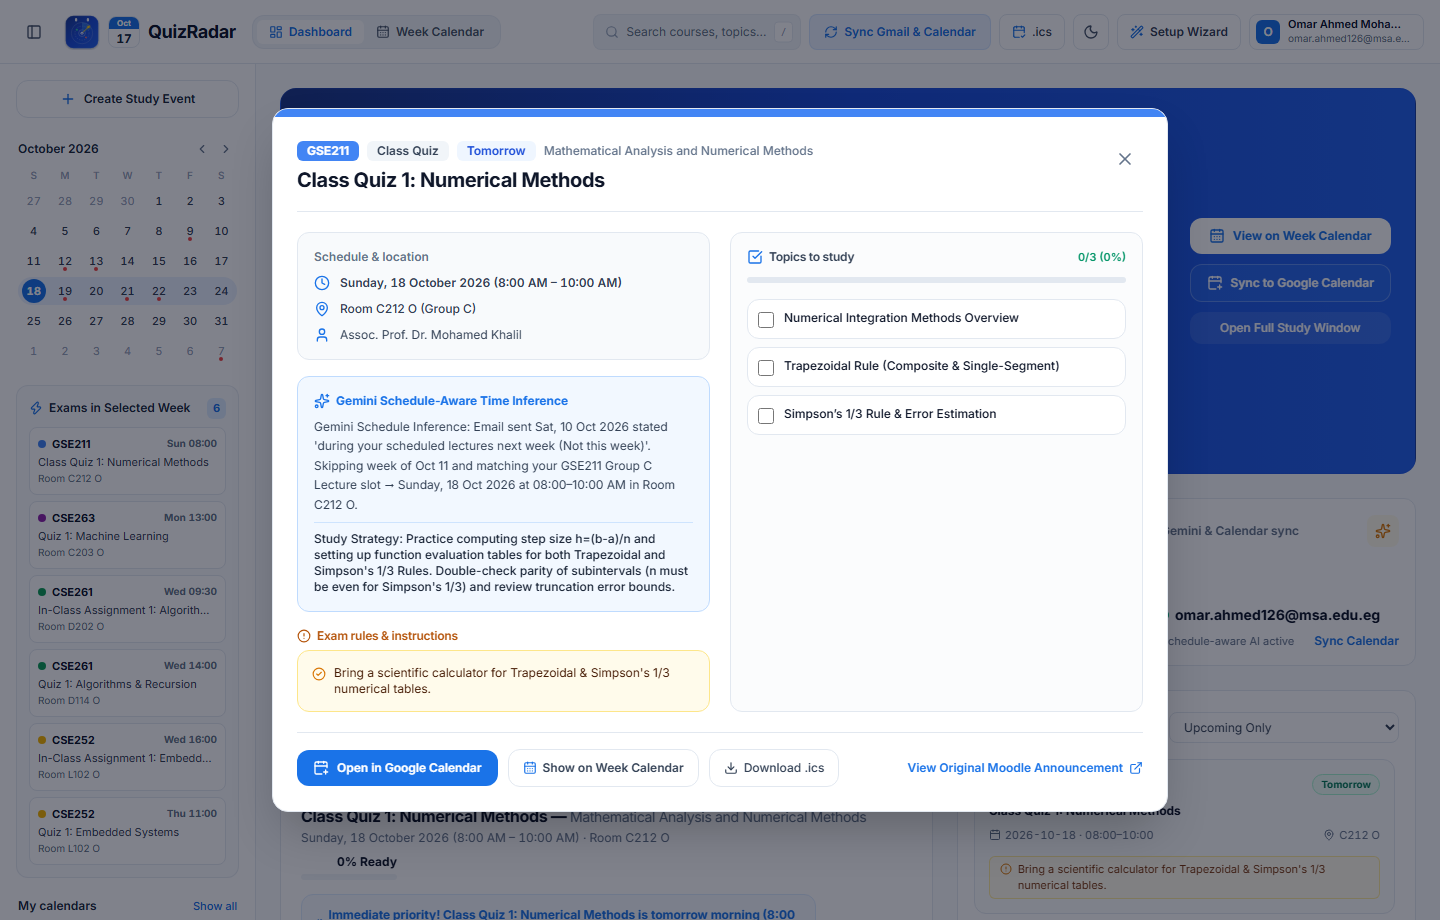
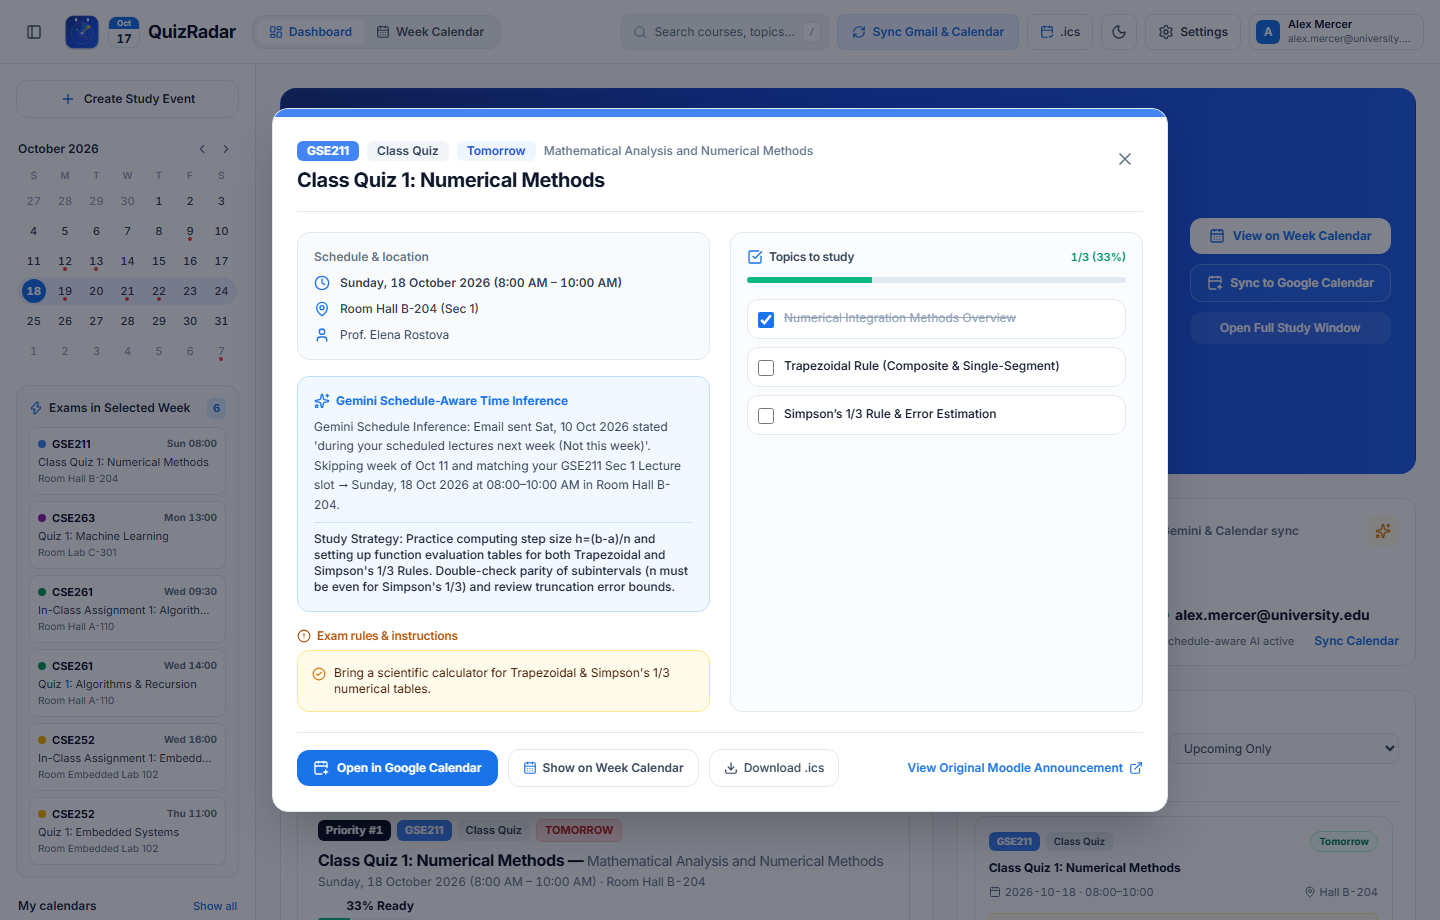
Update screenshots and HTML defaults to use anonymized dummy student & instructor data

diff --git a/static/index.html b/static/index.html
@@ -327,11 +327,11 @@
       <!-- Signed-in Google User Pill -->
       <div onclick="openSettingsModal()" class="h-9 flex items-center gap-2 pl-1.5 pr-2.5 rounded-lg border border-slate-200 dark:border-slate-700 hover:bg-slate-100 dark:hover:bg-slate-800 cursor-pointer transition" title="Account & Sync Settings">
         <div id="user-avatar-badge" class="w-6 h-6 rounded-md bg-[#1a73e8] text-white flex items-center justify-center text-xs font-semibold">
-          O
+          A
         </div>
         <div class="hidden xl:block text-left leading-tight">
-          <div id="user-name-label" class="text-[11px] font-semibold text-slate-900 dark:text-slate-100 truncate max-w-[115px]">Omar Ahmed</div>
-          <div id="user-email-label" class="text-[10px] text-slate-500 dark:text-slate-400 truncate max-w-[125px]">omar.ahmed126@msa.edu.eg</div>
+          <div id="user-name-label" class="text-[11px] font-semibold text-slate-900 dark:text-slate-100 truncate max-w-[115px]">Alex Mercer</div>
+          <div id="user-email-label" class="text-[10px] text-slate-500 dark:text-slate-400 truncate max-w-[125px]">alex.mercer@university.edu</div>
         </div>
       </div>
     </div>
@@ -490,7 +490,7 @@
             <div class="mt-3">
               <div class="flex items-center gap-1.5">
                 <span class="inline-block w-2 h-2 rounded-full bg-emerald-500 shrink-0"></span>
-                <span id="kpi-sync-account" class="text-sm font-bold text-slate-900 dark:text-white truncate">omar.ahmed126@msa.edu.eg</span>
+                <span id="kpi-sync-account" class="text-sm font-bold text-slate-900 dark:text-white truncate">alex.mercer@university.edu</span>
               </div>
               <div class="flex items-center justify-between mt-2">
                 <span class="text-[11px] text-slate-500 dark:text-slate-400">Schedule-aware AI active</span>
@@ -756,10 +756,10 @@
           <!-- Account Profile Card -->
           <div class="p-4 rounded-xl border border-slate-200 dark:border-slate-700 bg-slate-50/80 dark:bg-slate-800/60 flex flex-wrap items-center justify-between gap-4">
             <div class="flex items-center gap-3.5">
-              <div id="onboard-user-avatar" class="w-12 h-12 rounded-xl bg-[#1a73e8] text-white flex items-center justify-center text-base font-bold shadow-xs">O</div>
+              <div id="onboard-user-avatar" class="w-12 h-12 rounded-xl bg-[#1a73e8] text-white flex items-center justify-center text-base font-bold shadow-xs">A</div>
               <div>
-                <div id="onboard-user-name" class="text-sm font-bold text-slate-900 dark:text-white">Omar Ahmed Mohamed Refaat Mostafa</div>
-                <div id="onboard-user-email" class="text-xs font-medium text-[#1a73e8] dark:text-blue-400">omar.ahmed126@msa.edu.eg</div>
+                <div id="onboard-user-name" class="text-sm font-bold text-slate-900 dark:text-white">Alex Mercer</div>
+                <div id="onboard-user-email" class="text-xs font-medium text-[#1a73e8] dark:text-blue-400">alex.mercer@university.edu</div>
                 <div id="onboard-scope-note" class="text-[11px] text-slate-500 dark:text-slate-400 mt-0.5">Gmail Read & Google Calendar Direct Sync Ready</div>
               </div>
             </div>
@@ -1023,10 +1023,10 @@
           </div>
           <div class="flex flex-wrap items-center justify-between gap-3">
             <div class="flex items-center gap-3">
-              <div id="settings-user-avatar" class="w-10 h-10 rounded-xl bg-[#1a73e8] text-white flex items-center justify-center text-sm font-bold">O</div>
+              <div id="settings-user-avatar" class="w-10 h-10 rounded-xl bg-[#1a73e8] text-white flex items-center justify-center text-sm font-bold">A</div>
               <div>
-                <div id="settings-user-name" class="text-xs font-bold text-slate-900 dark:text-white">Omar Ahmed Mohamed Refaat Mostafa</div>
-                <div id="settings-user-email" class="text-xs text-[#1a73e8] dark:text-blue-400 font-medium">omar.ahmed126@msa.edu.eg</div>
+                <div id="settings-user-name" class="text-xs font-bold text-slate-900 dark:text-white">Alex Mercer</div>
+                <div id="settings-user-email" class="text-xs text-[#1a73e8] dark:text-blue-400 font-medium">alex.mercer@university.edu</div>
               </div>
             </div>
             <div class="flex flex-wrap items-center gap-2">

diff --git a/static/app.js b/static/app.js
@@ -188,13 +188,17 @@ async function loadFullState() {
       activeCourseFilters.add("GENERAL");
     }
 
+    const params = new URLSearchParams(window.location.search);
+    const demo = params.get("demo");
+    if (demo) {
+      applyDemoDummyData();
+    }
+
     updateTopBarAndUser();
     renderSidebar();
     renderDashboard();
     renderWeekCalendar();
 
-    const params = new URLSearchParams(window.location.search);
-    const demo = params.get("demo");
     if (demo) {
       closeOnboardingModal();
       if (demo === "onboarding") {
@@ -226,6 +230,92 @@ async function loadFullState() {
   } catch (err) {
     console.error("Failed to load state:", err);
   }
+}
+
+function applyDemoDummyData() {
+  if (!appState.auth) appState.auth = {};
+  if (!appState.config) appState.config = {};
+
+  appState.auth.name = "Alex Mercer";
+  appState.auth.email = "alex.mercer@university.edu";
+  appState.auth.authenticated = true;
+  appState.auth.has_calendar_scope = true;
+  appState.config.user_name = "Alex Mercer";
+  appState.config.user_email = "alex.mercer@university.edu";
+  appState.config.last_gmail_sync = "2026-10-17 09:30";
+
+  const dummyByCourse = {
+    GSE211: { instructor: "Prof. Elena Rostova", room: "Hall B-204", group: "Sec 1" },
+    CSE263: { instructor: "Dr. Marcus Vance", room: "Lab C-301", group: "Sec 2" },
+    CSE261: { instructor: "Prof. Claire Sterling", room: "Hall A-110", group: "Sec 1" },
+    CSE252: { instructor: "Dr. David Chen", room: "Embedded Lab 102", group: "Sec 2" },
+    CSE241: { instructor: "Prof. Arthur Pendelton", room: "Room D-205", group: "Sec 1" },
+    CSE262: { instructor: "Dr. Sarah Jenkins", room: "Hall C-115", group: "Sec 1" },
+  };
+
+  const scrubText = (txt) => {
+    if (!txt) return txt;
+    return txt
+      .replace(/C212 O/g, "Hall B-204")
+      .replace(/C203 O/g, "Lab C-301")
+      .replace(/D202 O/g, "Hall A-110")
+      .replace(/D114 O/g, "Hall A-110")
+      .replace(/L102 O/g, "Embedded Lab 102")
+      .replace(/Group [A-Z]/g, "Sec 1");
+  };
+
+  const scrubAssessment = (a) => {
+    if (!a) return;
+    const d = dummyByCourse[a.course_id] || {
+      instructor: "Prof. Elena Rostova",
+      room: "Hall B-204",
+      group: "Sec 1",
+    };
+    a.instructor = d.instructor;
+    a.room = d.room;
+    a.group = d.group;
+    a.ai_inference_note = scrubText(a.ai_inference_note);
+    a.ai_study_plan = scrubText(a.ai_study_plan);
+  };
+
+  (appState.assessments || []).forEach(scrubAssessment);
+  if (appState.dashboard) {
+    scrubAssessment(appState.dashboard.next_up);
+    (appState.dashboard.upcoming_this_week || []).forEach(scrubAssessment);
+    (appState.dashboard.all_upcoming || []).forEach(scrubAssessment);
+    (appState.dashboard.study_recommendations || []).forEach((rec) => {
+      const d = dummyByCourse[rec.course_id] || { room: "Hall B-204" };
+      rec.room = d.room;
+      rec.why_study_now = scrubText(rec.why_study_now);
+      rec.ai_study_plan = scrubText(rec.ai_study_plan);
+    });
+
+    // Mark a couple of sample topics completed in demo mode so readiness progress bar looks realistic
+    const recs = appState.dashboard.study_recommendations || [];
+    if (recs[0]?.topics?.[0]) {
+      recs[0].topics[0].completed = true;
+      if (!appState.config.completed_topics) appState.config.completed_topics = {};
+      appState.config.completed_topics[recs[0].topics[0].key] = true;
+      recs[0].progress_percent = Math.round((1 / recs[0].topics.length) * 100);
+    }
+    if (recs[1]?.topics?.[0]) {
+      recs[1].topics[0].completed = true;
+      appState.config.completed_topics[recs[1].topics[0].key] = true;
+      recs[1].progress_percent = Math.round((1 / recs[1].topics.length) * 100);
+    }
+    appState.dashboard.completed_topics_count = 6;
+    appState.dashboard.total_topics_count = 23;
+    appState.dashboard.readiness_percent = 26;
+  }
+
+  (appState.schedule?.slots || []).forEach((s) => {
+    const d = dummyByCourse[s.course_id];
+    if (d) {
+      s.instructor = d.instructor;
+      s.room = d.room;
+      s.group = d.group;
+    }
+  });
 }
 
 function updateTopBarAndUser() {
